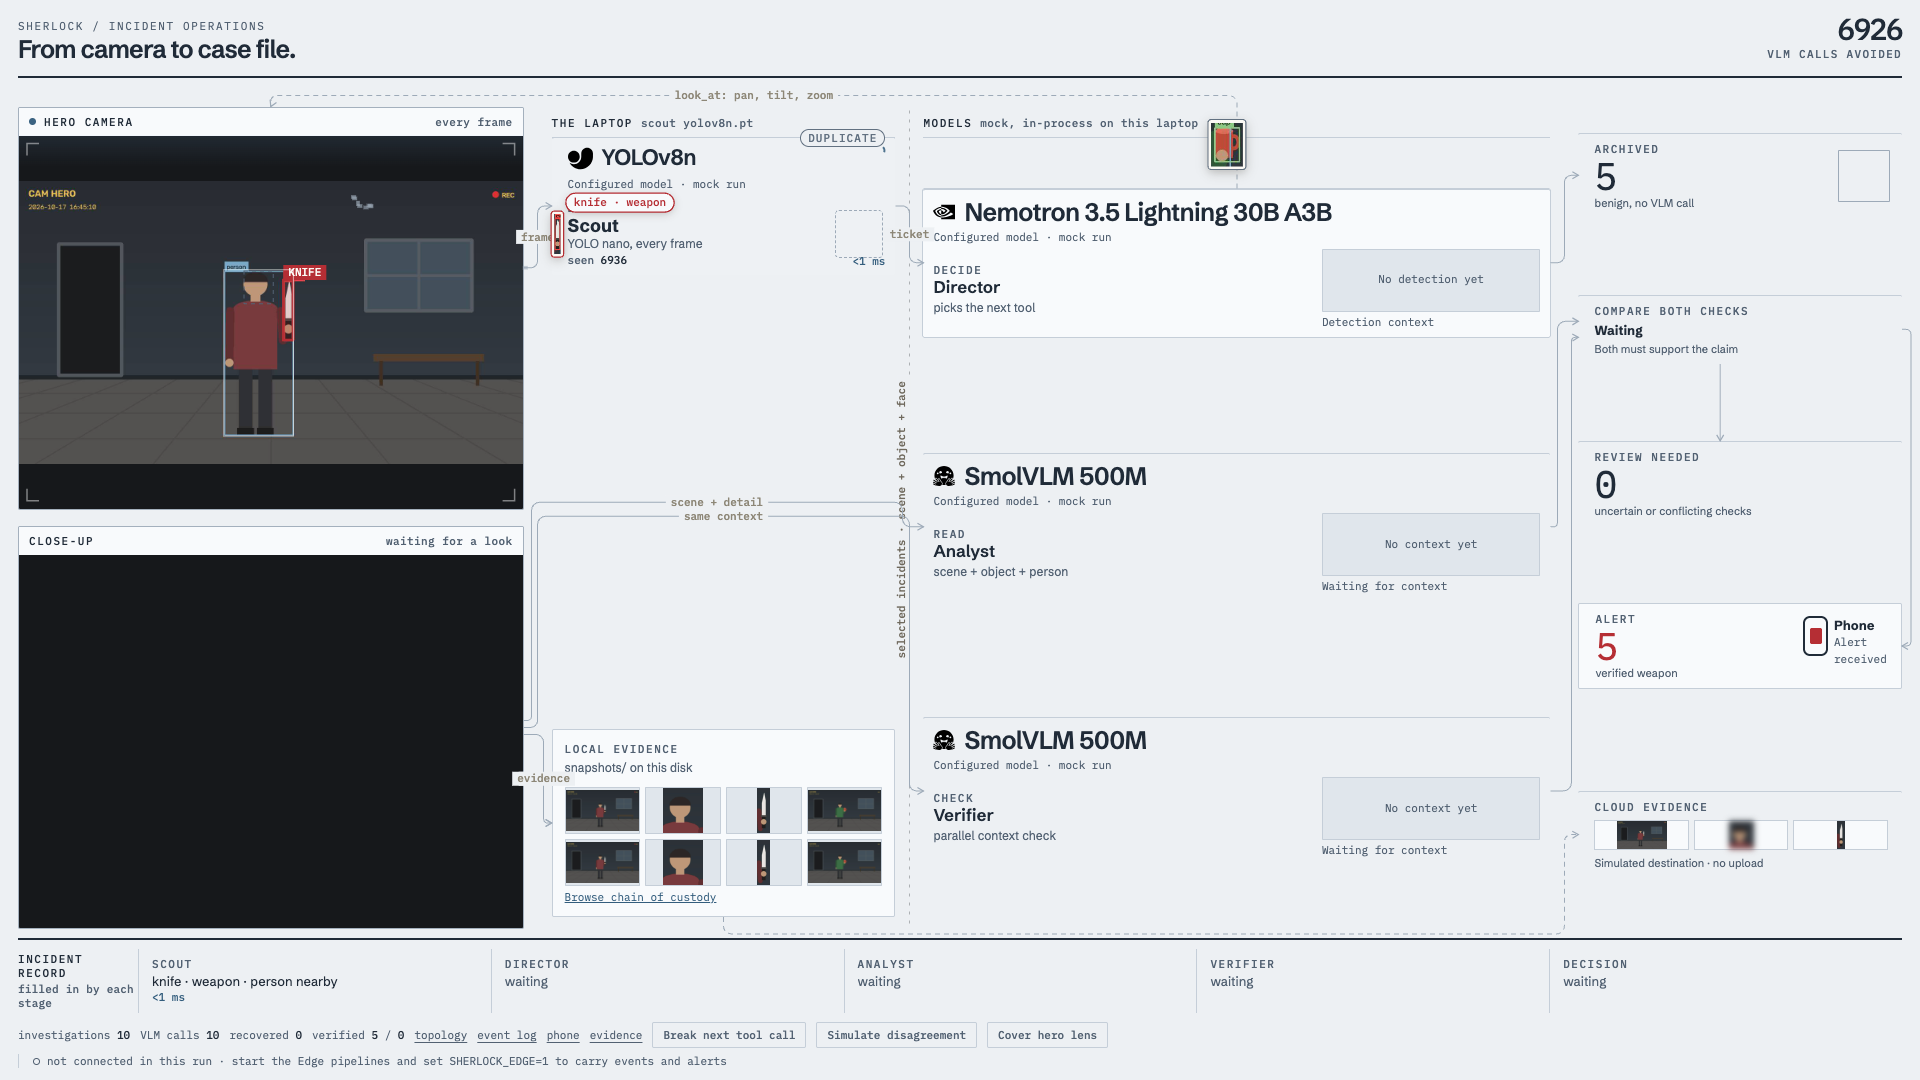
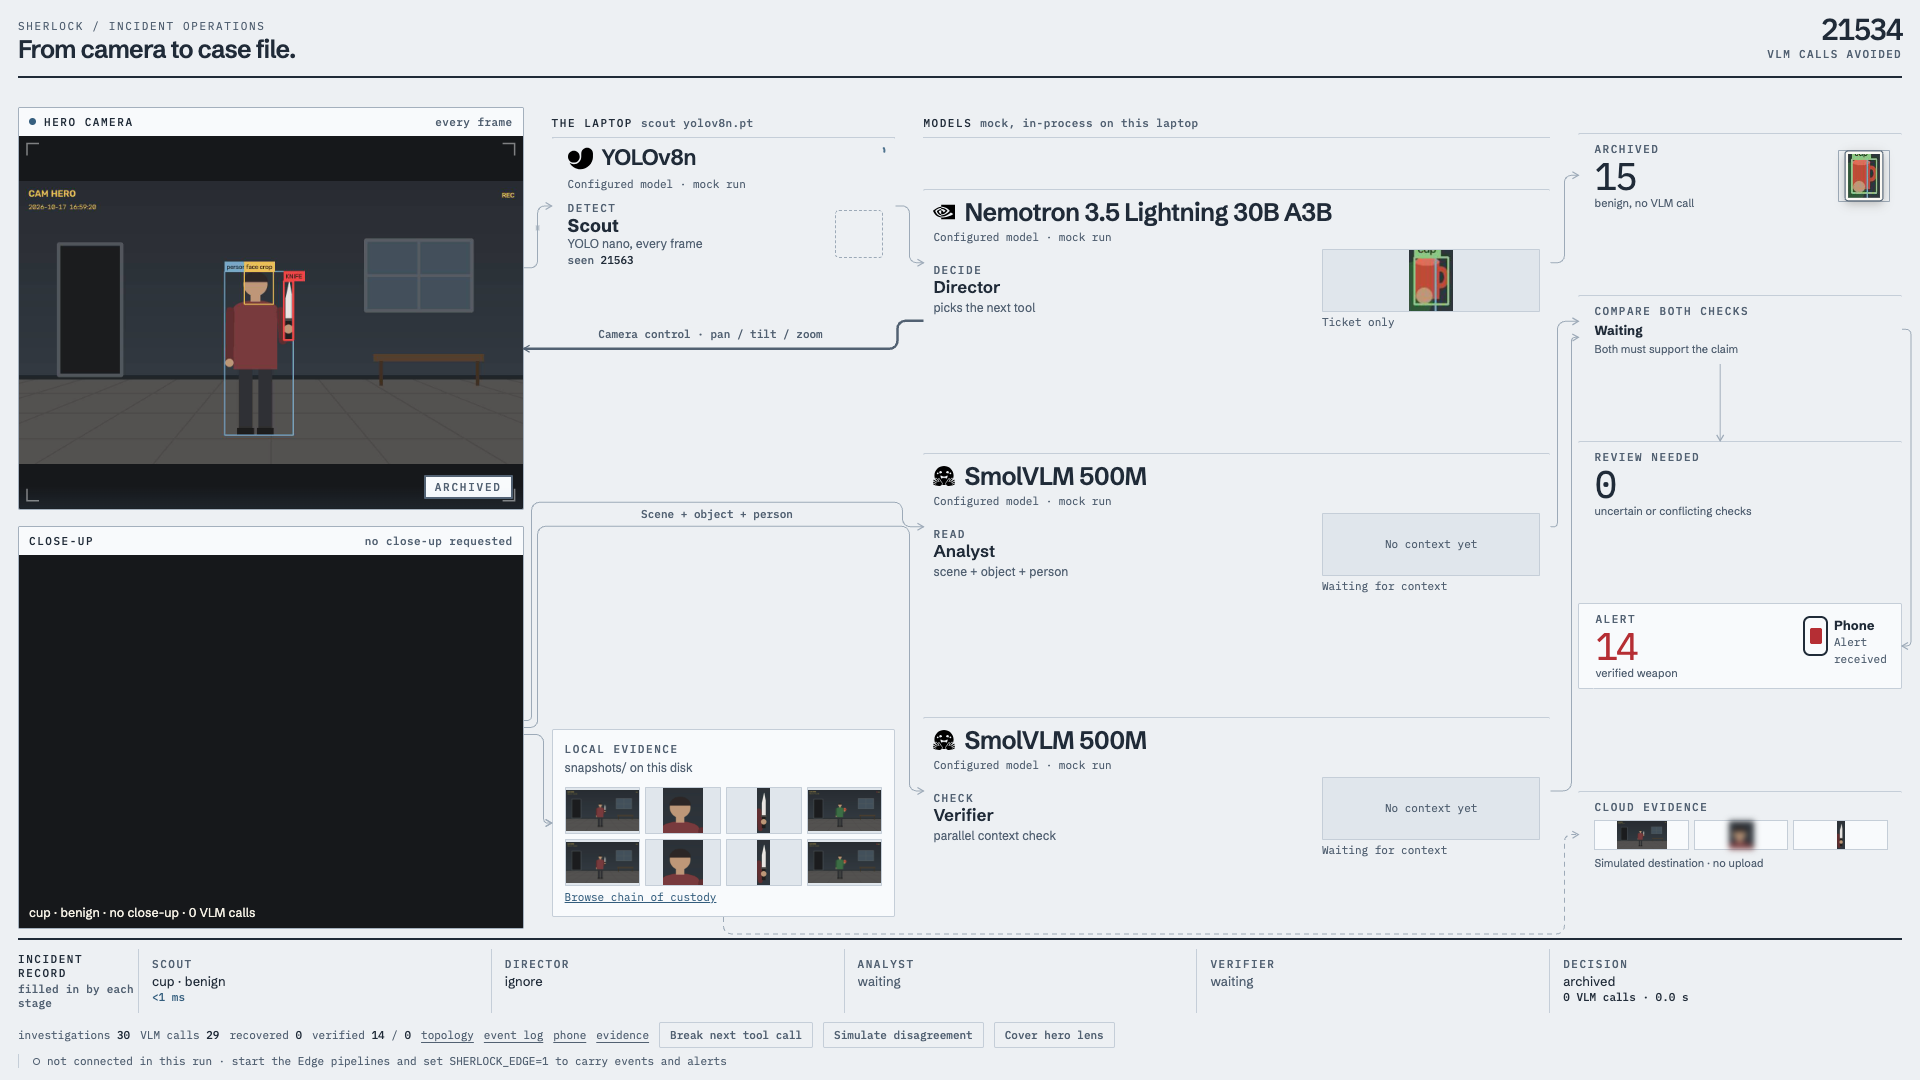
Clarify camera control routing and reduce flow animation clutter

diff --git a/sherlock/sherlock/dashboard/static/pipeline.html b/sherlock/sherlock/dashboard/static/pipeline.html
@@ -438,18 +438,20 @@ function layout() {
   const g1 = (R.cam.r + R.zl.l) / 2, g3 = (R.zl.r + R.zm.l) / 2, g5 = (R.zm.r + R.out.l) / 2;
   L.g3 = g3;
   const w = R.wide, c = R.crop, s = R.scout, bk = R.bucket, d = R.director, an = R.analyst, v = R.verifier;
-  const lane = (s.b + bk.t) / 2, railY = R.board.t + 9;
+  const lane = (s.b + bk.t) / 2;
+  const controlY = Math.max(s.b + 25, d.b + 12);
   const wy = w.t + (w.b - w.t) * 0.4;
-  E.frames = mk([P(w.r, wy), P(g1, wy), P(g1, s.cy), P(s.l, s.cy)], { label: 'frame', shape: 'frame', color: C.rail, lseg: 1 });
-  E.uplink = mk([P(s.r, s.cy), P(g3, s.cy), P(g3, d.cy), P(d.l, d.cy)], { label: 'ticket', color: C.scout });
-  E.lookat = mk([P(d.cx, d.t), P(d.cx, railY), P(w.cx, railY), P(w.cx, w.t)], { label: 'look_at: pan, tilt, zoom', dash: true, color: C.director });
+  E.frames = mk([P(w.r, wy), P(g1, wy), P(g1, s.cy), P(s.l, s.cy)], { shape: 'frame', color: C.rail, lseg: 1 });
+  E.uplink = mk([P(s.r, s.cy), P(g3, s.cy), P(g3, d.cy), P(d.l, d.cy)], { color: C.scout });
+  E.lookat = mk([P(d.l, d.b - 16), P(g3 - 12, d.b - 16), P(g3 - 12, controlY), P(w.r, controlY)],
+    { label: 'Camera control · pan / tilt / zoom', color: C.director, lseg: 2, labelOffset: -14, prominent: true });
   E.crop = mk([P(c.r, c.cy - 7), P(g1 - 6, c.cy - 7), P(g1 - 6, lane), P(g3 - 7, lane), P(g3 - 7, an.cy), P(an.l, an.cy)],
-    { label: 'scene + detail', color: C.analyst, lseg: 2 });
-  E.seal = mk([P(c.r, c.cy + 7), P(g1 + 6, c.cy + 7), P(g1 + 6, bk.cy), P(bk.l, bk.cy)], { label: 'sealed', color: C.benign, lseg: 1 });
-  E.judge = mk([P(c.r, c.cy), P(g1, c.cy), P(g1, lane + 14), P(g3, lane + 14), P(g3, v.cy), P(v.l, v.cy)], { label: 'same context', color: C.verifier, lseg: 2 });
+    { label: 'Scene + object + person', color: C.analyst, lseg: 2, labelOffset: 12 });
+  E.seal = mk([P(c.r, c.cy + 7), P(g1 + 6, c.cy + 7), P(g1 + 6, bk.cy), P(bk.l, bk.cy)], { color: C.benign, lseg: 1 });
+  E.judge = mk([P(c.r, c.cy), P(g1, c.cy), P(g1, lane + 24), P(g3, lane + 24), P(g3, v.cy), P(v.l, v.cy)], { color: C.verifier });
   E.assessA = mk([P(an.r, an.cy), P(g5 - 7, an.cy), P(g5 - 7, R.comparison.cy - 8), P(R.comparison.l, R.comparison.cy - 8)], {color: C.analyst});
   E.assessV = mk([P(v.r, v.cy), P(g5 + 7, v.cy), P(g5 + 7, R.comparison.cy + 8), P(R.comparison.l, R.comparison.cy + 8)], {color: C.verifier});
-  E.store = mk([P(c.r, c.cy + 7), P(g1 + 6, c.cy + 7), P(g1 + 6, bk.cy), P(bk.l, bk.cy)], { label: 'evidence', color: C.benign, lseg: 1 });
+  E.store = mk([P(c.r, c.cy + 7), P(g1 + 6, c.cy + 7), P(g1 + 6, bk.cy), P(bk.l, bk.cy)], { color: C.benign, lseg: 1 });
   E.replica = mk([P(bk.cx, bk.b), P(bk.cx, R.board.b + 5), P(g5, R.board.b + 5), P(g5, R.cloud.cy), P(R.cloud.l, R.cloud.cy)], { color: C.scout, dash: true });
   E.toIgnore = mk([P(d.r, d.cy), P(g5, d.cy), P(g5, R.ignored.cy), P(R.ignored.l, R.ignored.cy)], { color: C.benign });
   E.toLog = mk([P(R.comparison.cx - 20, R.comparison.b), P(R.comparison.cx - 20, R.logged.t)], { color: C.analyst });
@@ -508,6 +510,7 @@ function grab(img, bb, size = 160) {
 
 // ---- animated state ----------------------------------------------------------------------------
 const S = {
+  /** @type {Array<{e: ReturnType<typeof mk>, t: number, v: number, j: number, size: number}>} */
   particles: [], cards: [], bursts: [], shelf: [],
   boxes: [],        // [{ bb, color, alpha, dash, label }] on the wide feed
   zoom: null, docked: null, archived: null, frames: 0, ambient: 0.6,
@@ -544,10 +547,11 @@ function flow(edge, ms, color) {
   const e = E[edge];
   e.hot = Math.max(e.hot, now() + ms);
   e.tint = color || null;
-  if (!REDUCED) for (let i = 0; i < 6; i++) spawnParticle(e, Math.random() * 0.15);
+  if (!REDUCED) spawnParticle(e);
 }
 function spawnParticle(e, t0 = 0) {
-  S.particles.push({ e, t: t0, v: 0.004 + Math.random() * 0.004, j: (Math.random() - .5) * 4, size: 1.3 + Math.random() * 1.5 });
+  if (S.particles.some(p => p.e === e)) return;
+  S.particles.push({ e, t: t0, v: 0.006, j: 0, size: 2 });
 }
 function burst(x, y, color, n = 26) {
   if (REDUCED) n = Math.min(n, 6);
@@ -917,11 +921,11 @@ function drawLabel(e, hot) {
   if (!e.label) return;
   let i = e.lseg;
   if (i === undefined) { i = 0; for (let k = 1; k < e.lens.length; k++) if (e.lens[k] > e.lens[i]) i = k; }
-  const a = e.pts[i], b = e.pts[i + 1], x = (a.x + b.x) / 2, y = (a.y + b.y) / 2;
+  const a = e.pts[i], b = e.pts[i + 1], x = (a.x + b.x) / 2, y = (a.y + b.y) / 2 + (e.labelOffset || 0);
   ctx.font = `500 11px ${FONT.mono}`; ctx.textAlign = 'center'; ctx.textBaseline = 'middle';
   const tw = ctx.measureText(e.label).width + 10;
   ctx.fillStyle = C.paper; ctx.fillRect(x - tw / 2, y - 7, tw, 14);
-  ctx.fillStyle = hot ? (e.tint || e.color) : '#8d8777'; ctx.fillText(e.label, x, y + 0.5);
+  ctx.fillStyle = hot ? (e.tint || e.color) : C.director; ctx.fillText(e.label, x, y + 0.5);
 }
 function drawCard(c, cx, cy, w, alpha = 1) {
   if (c.text) {                                                          // a ticket: words, not pixels
@@ -950,23 +954,14 @@ function drawCard(c, cx, cy, w, alpha = 1) {
   ctx.restore();
   return h;
 }
-function drawBoundary() {
-  const x = L.g3, y0 = R.board.t + 24, y1 = R.board.b;
-  ctx.save(); ctx.setLineDash([3, 6]); ctx.strokeStyle = 'rgba(27,30,34,.3)'; ctx.lineWidth = 1;
-  ctx.beginPath(); ctx.moveTo(x, y0); ctx.lineTo(x, y1); ctx.stroke(); ctx.setLineDash([]);
-  ctx.save(); ctx.translate(x, (y0 + y1) / 2); ctx.rotate(-Math.PI / 2);
-  ctx.font = `500 11px ${FONT.mono}`; ctx.textAlign = 'center'; ctx.textBaseline = 'bottom';
-  const t = 'selected incidents · scene + object + face', tw = ctx.measureText(t).width + 12;
-  ctx.fillStyle = C.paper; ctx.fillRect(-tw / 2, -12, tw, 13);
-  ctx.fillStyle = '#6f695d'; ctx.fillText(t, 0, -2); ctx.restore(); ctx.restore();
-}
+function drawBoundary() { /* Column headings identify the execution locations. */ }
 function drawRails(t) {
   for (const e of Object.values(E)) {
     const hot = e.hot > t;
     ctx.save();
-    ctx.strokeStyle = hot ? e.tint || e.color : C.rail; ctx.lineWidth = hot ? 1.7 : 1;
+    ctx.strokeStyle = hot || e.prominent ? e.tint || e.color : C.rail; ctx.lineWidth = e.prominent ? 2.5 : (hot ? 1.5 : 1);
     ctx.setLineDash(e.dash ? [5, 4] : []); tracePath(e); ctx.stroke();
-    drawArrow(e, hot ? e.tint || e.color : C.rail);
+    drawArrow(e, hot || e.prominent ? e.tint || e.color : C.rail);
     ctx.restore();
     drawLabel(e, hot);
   }
@@ -1038,7 +1033,7 @@ function drawFeed(t) {
 function step(t) {
   ctx.clearRect(0, 0, innerWidth, innerHeight);
   if (E.frames && !REDUCED && Math.random() < S.ambient * 0.05) spawnParticle(E.frames);
-  for (const e of Object.values(E)) if (e.hot > t && !REDUCED && Math.random() < 0.6) spawnParticle(e);
+  for (const e of Object.values(E)) if (e.hot > t && !REDUCED && Math.random() < 0.015) spawnParticle(e);
   for (const p of S.particles) p.t += p.v;
   S.particles = S.particles.filter(p => p.t < 1);
   if (S.particles.length > 400) S.particles.splice(0, S.particles.length - 400);

diff --git a/tests/test_pipeline_view.py b/tests/test_pipeline_view.py
@@ -24,8 +24,8 @@ def test_pipeline_page_mounts_and_uses_existing_streams():
     for needle in ("/events", "/stream/wide", "/stream/crop", "/demo/fail/1", "/demo/cover/hero/"):
         assert needle in body, needle
     # Selected incidents carry scene and person context across the model boundary
-    assert "selected incidents" in body
-    assert "scene + object + face" in body
+    assert "Camera control · pan / tilt / zoom" in body
+    assert "Scene + object + person" in body
     # the template token is always replaced, never served raw
     assert "__CFG_JSON__" not in body
 
